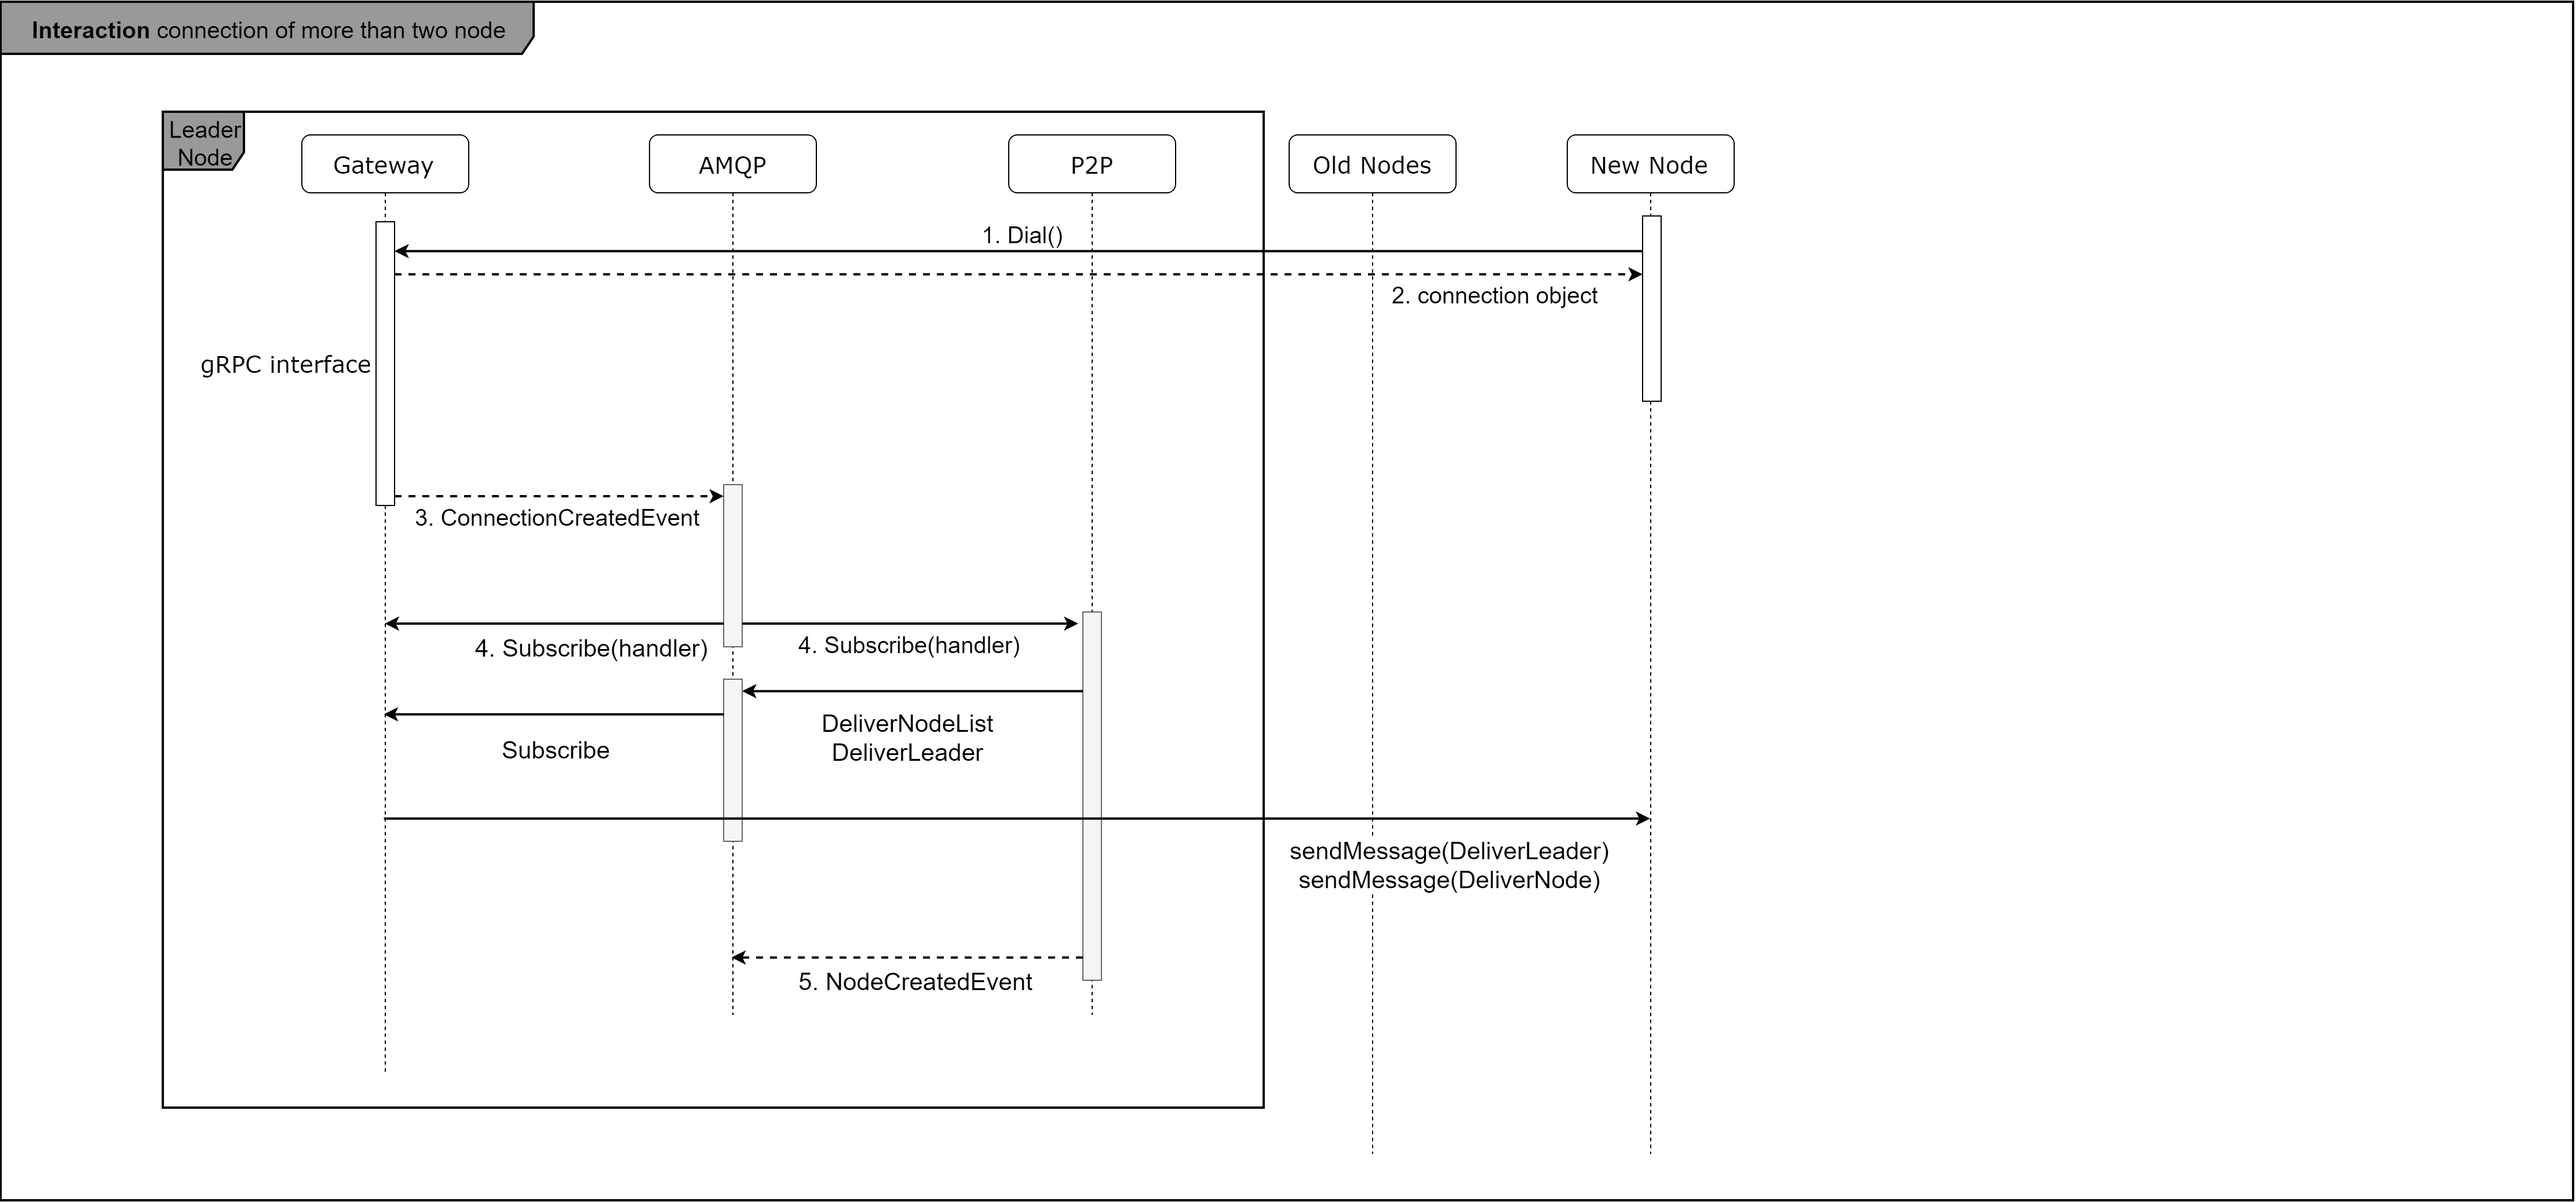
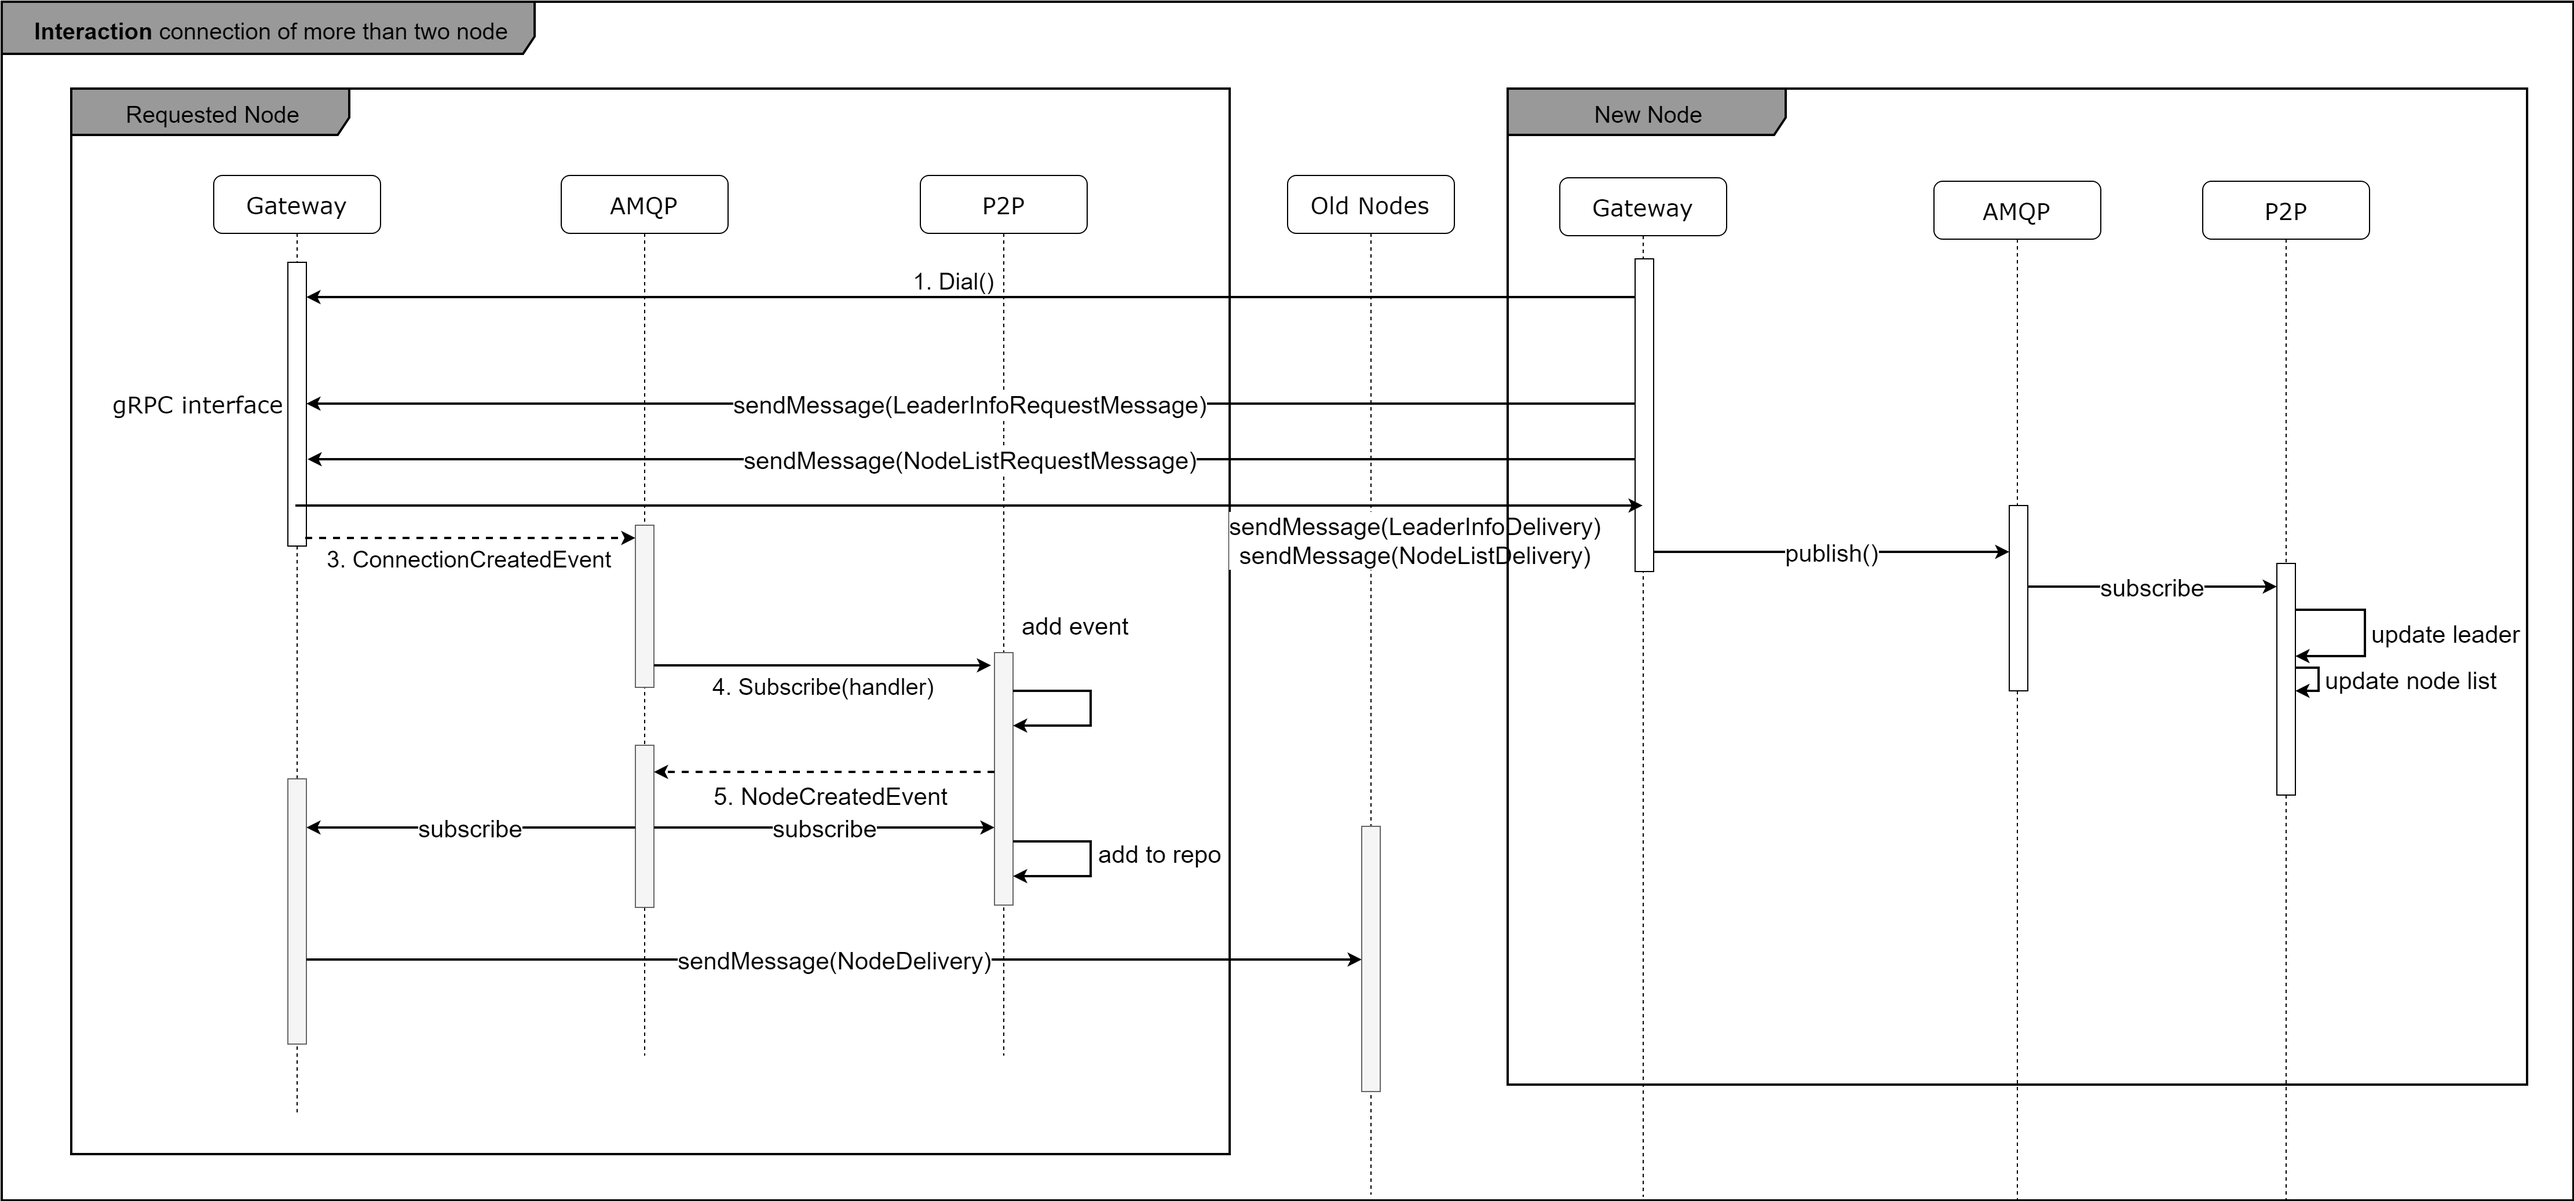
update add single node api, handler etc and update scenario image

diff --git a/p2p/infra/messaging/event_handler.go b/p2p/infra/messaging/event_handler.go
@@ -8,9 +8,10 @@ import (
 type NodeEventHandler struct {
 	nodeRepository   p2p.NodeRepository
 	leaderRepository p2p.LeaderRepository
+	messageDispatcher p2p.MessageDispatcher
 }
 
-func NewNodeEventHandler(nodeRepo *leveldb.NodeRepository, leaderRepo *leveldb.LeaderRepository) *NodeEventHandler {
+func NewNodeEventHandler(nodeRepo *leveldb.NodeRepository, leaderRepo *leveldb.LeaderRepository, messageDispatcher p2p.MessageDispatcher) *NodeEventHandler {
 	return &NodeEventHandler{
 		nodeRepository:   nodeRepo,
 		leaderRepository: leaderRepo,
@@ -21,36 +22,15 @@ func NewNodeEventHandler(nodeRepo *leveldb.NodeRepository, leaderRepo *leveldb.L
 //p2p 에서 노드가 추가된 뒤에 노드가 추가되었다는 사실을 알리는 식으로 doc/ 에 시나리오 작성해 두었습니다.
 //참고 바랍니다.
 
-//<<<<<<< HEAD
-//func (neh *NodeEventHandler) HandleConnCreatedEvent(event p2p.ConnectionCreatedEvent) {
-//	id := p2p.NodeId(event.ID) //id 생성은 어떻게 동작하는가? aggregateID를 사용?!
-//	address := event.Address
-//	node := p2p.NewNode(address, id)
-//	neh.nodeRepository.Save(*node)
-//
-//	// request leader info if leader is not in repository
-//	if neh.leaderRepository.GetLeader() == nil {
-//		err := neh.messageDispatcher.RequestLeaderInfo(*node)
-//		if err != nil {
-//			log.Println(err.Error())
-//		}
-//=======
+
 func (n *NodeEventHandler) HandleConnCreatedEvent(event p2p.ConnectionCreatedEvent) {
 
 	if event.ID == "" || event.Address == "" {
 		return
 	}
 
-	node := p2p.NewNode(event.Address, p2p.NodeId(event.ID))
+	node := p2p.NewNode(event.Address, p2p.NodeId{Id:event.ID})
 
-//<<<<<<< HEAD
-//	// 노드 생성 이벤트 날림
-//	err := neh.messageDispatcher.publisher.Publish("Event", "Connection", p2p.NodeCreatedEvent{
-//		EventModel: midgard.EventModel{
-//			ID: event.GetID(),
-//		},
-//	})
-//=======
 	n.nodeRepository.Save(*node)
 }
 
@@ -61,7 +41,7 @@ func (n *NodeEventHandler) HandleConnDisconnectEvent(event p2p.ConnectionDisconn
 		return
 	}
 
-	nodeId := p2p.NodeId(event.ID)
+	nodeId := p2p.NodeId{Id:event.ID}
 
 	n.nodeRepository.Remove(nodeId)
 }
@@ -80,6 +60,11 @@ func (n *NodeEventHandler) HandleLeaderUpdatedEvent(event p2p.LeaderUpdatedEvent
 	n.leaderRepository.SetLeader(leader)
 }
 
+func (n *NodeEventHandler) HandlerNodeCreatedEvent(event p2p.NodeCreatedEvent){
+	node := p2p.NewNode(event.IpAddress, p2p.NodeId{Id:event.ID})
+	n.nodeRepository.Save(*node)
+	n.messageDispatcher.DeliverNode(p2p.NodeId{Id:event.ID}, *node)
+}
 //save all nodes when NodeListReceivedEvent Detected
 //node는 각자가 aggregate이기 때문에 aggregate가 동시에 update되는 event는 없습니다.
 //event 1개가 aggregate1개를 변화시키는 것

diff --git a/p2p/infra/messaging/message_dispatcher.go b/p2p/infra/messaging/message_dispatcher.go
@@ -113,6 +113,17 @@ func (md *MessageDispatcher) DeliverNodeList(nodeId p2p.NodeId, nodeList []p2p.N
 	return md.publisher("Command", "message.deliver", messageDeliverCommand)
 }
 
+//deliver single node
+func (md *MessageDispatcher) DeliverNode(nodeId p2p.NodeId, node p2p.Node) error {
+	messageDeliverCommand, err := CreateMessageDeliverCommand("NodeDeliverProtocol", node)
+	if err != nil{
+		return err
+	}
+
+	messageDeliverCommand.Recipients = append(messageDeliverCommand.Recipients, node.NodeId.ToString())
+
+	return md.publisher("Command", "message.deliver", messageDeliverCommand)
+}
 func CreateMessageDeliverCommand(protocol string, body interface{}) (p2p.MessageDeliverCommand, error) {
 
 	data, err := common.Serialize(body)

diff --git a/p2p/api/node_api.go b/p2p/api/node_api.go
@@ -71,3 +71,20 @@ func (nodeApi *NodeApi) DeliverNodeList(nodeId p2p.NodeId){
 	nodeList, _ := nodeApi.nodeRepository.FindAll()
 	nodeApi.messageDispatcher.DeliverNodeList(nodeId, nodeList)
 }
+
+// add a node to repo
+func (nodeApi *NodeApi) AddNode(node p2p.Node) error {
+
+	event := p2p.NodeCreatedEvent{
+		EventModel: midgard.EventModel{
+			ID:   node.GetID(),
+			Type: "node.created",
+		},
+		IpAddress: node.IpAddress,
+	}
+
+	err := nodeApi.eventRepository.Save(event.GetID(), event)
+	if err != nil{
+		return err
+	}
+}

diff --git a/p2p/infra/messaging/command_handler.go b/p2p/infra/messaging/command_handler.go
@@ -5,6 +5,7 @@ import (
 
 	"github.com/it-chain/it-chain-Engine/p2p"
 	"github.com/it-chain/it-chain-Engine/p2p/api"
+	"github.com/it-chain/it-chain-Engine/common"
 )
 
 type GrpcMessageHandler struct {
@@ -49,5 +50,15 @@ func (g *GrpcMessageHandler) HandleMessageReceive(command p2p.GrpcRequestCommand
 		}
 
 		g.nodeApi.UpdateNodeList(nodeList)
+
+	case "NodeDeliverProtocol":
+		node := p2p.Node{}
+		err := common.Deserialize(command.Data, node)
+		if err != nil{
+			return
+		}
+		g.nodeApi.AddNode(node)
 	}
+
+
 }

diff --git a/p2p/message_dispatcher_service.go b/p2p/message_dispatcher_service.go
@@ -5,4 +5,5 @@ type MessageDispatcher interface {
 	DeliverLeaderInfo(nodeId NodeId, leader Leader) error
 	RequestNodeList(nodeId NodeId) error
 	DeliverNodeList(nodeId NodeId, nodes []Node) error
+	DeliverNode(nodeId NodeId, node Node) error
 }

diff --git a/p2p/infra/messaging/message_dispatcher_test.go b/p2p/infra/messaging/message_dispatcher_test.go
@@ -21,7 +21,7 @@ func TestMessageDispatcher_RequestLeaderInfo(t *testing.T) {
 	}
 
 	nodeId := p2p.NodeId{
-		"1",
+		Id: "1",
 	}
 
 	err := messageDispatcher.RequestLeaderInfo(nodeId)

diff --git a/p2p/README.md b/p2p/README.md
@@ -18,8 +18,8 @@ request of node list
 ### DeliverNodeList(toNode p2p.Node, nodeList []p2p.Node)
 delivery of node list
 
-
-
+### DelverNode(toNode p2p.NodeId, node p2p.Node)
+deliver of single node
 
 ## Message Protocol and Types of Messages
 
@@ -42,6 +42,11 @@ Message: `NodeListRequestMessage`
 send contents of node repository to specific node
 
 Message: `NodeListDelivery`
+
+### NodeDeliverProtocol
+send single node to specific node
+
+Message: `NodeDelivery`
 
 
 
